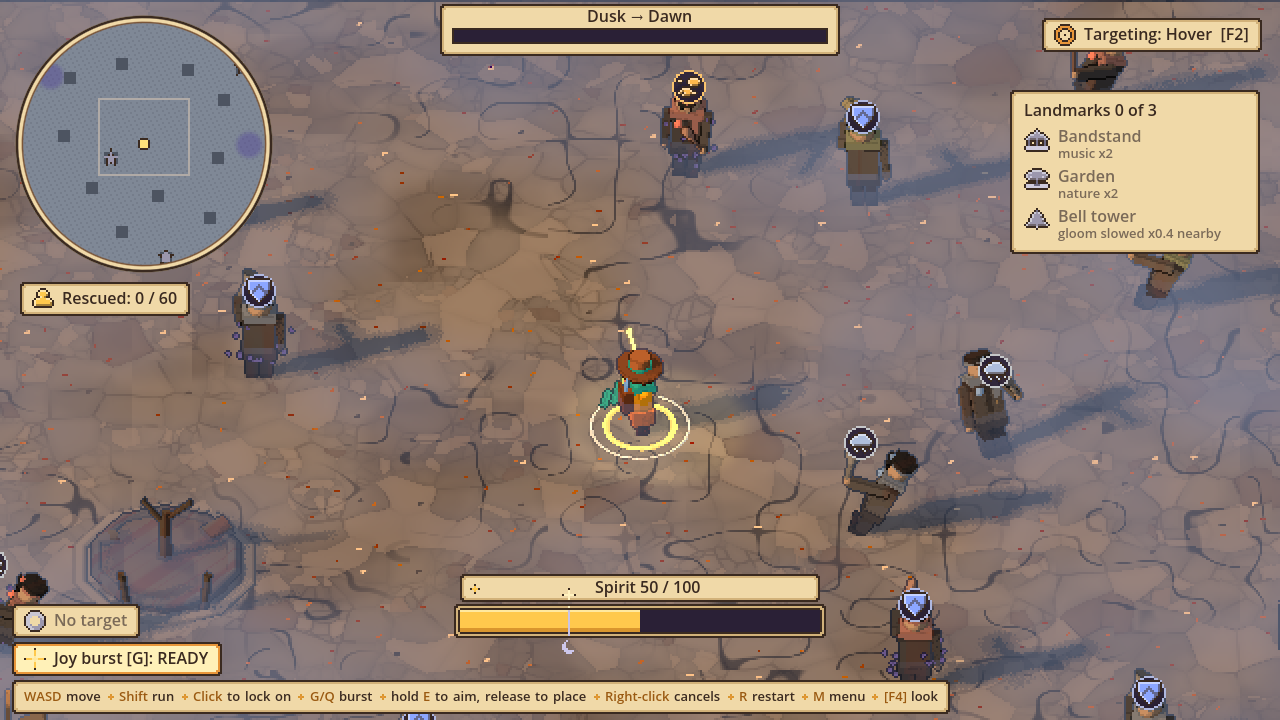
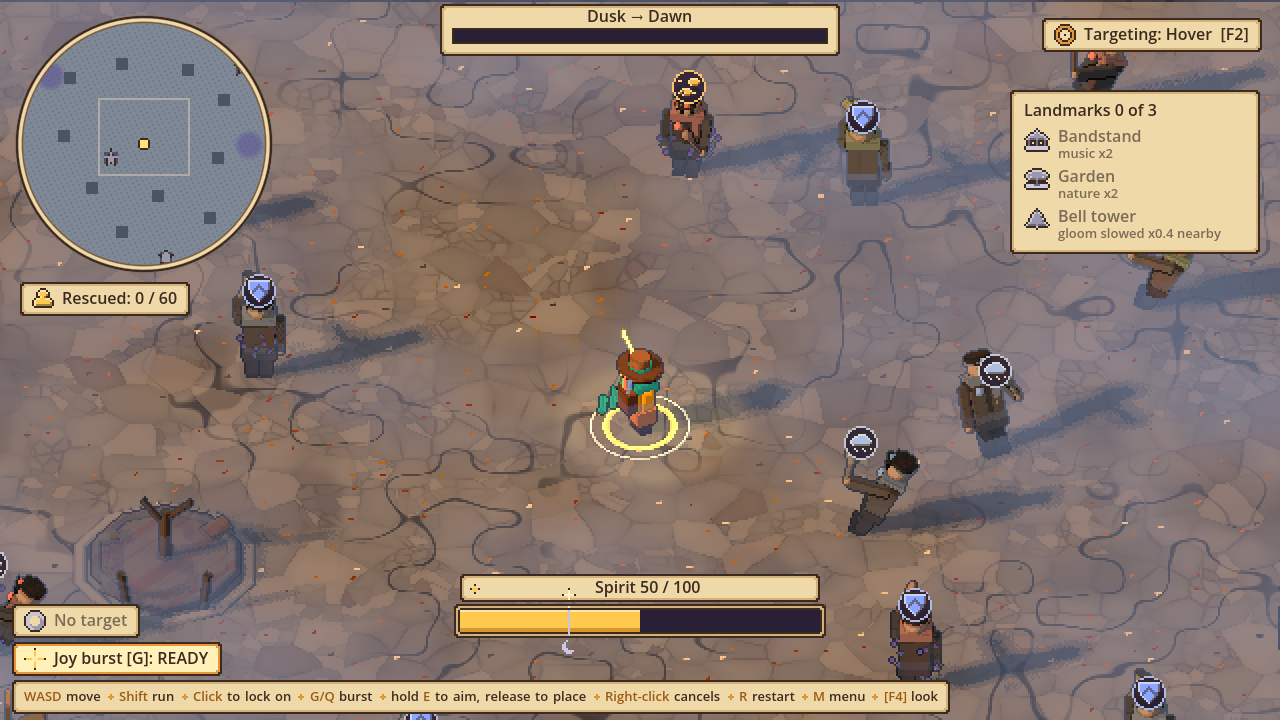
0.3.1 playtest 2: fewer larger butterflies with cached lookups, ground noise on an integer hash (no straight seams)
Butterflies (#44): C7_BUTTERFLIES 28 -> 9, drawn at their own L31_BUTTERFLY_SCALE 4.2 (other ambient stays 2.6). StyleAmbient.step
looked up the paint weight for every live flyer, every person and every bird block's building every frame; those lookups now run
every L31_AMBIENT_RECHECK (0.4 s) and are cached between. New perf test (60 people, full zone, by day, one StyleAmbient.step):
before 0.489, 0.496, 0.485 ms; after 0.360, 0.350, 0.375, 0.398, 0.370 ms (budget 0.6 ms).

Ground seams (#45): cause: the ground shader's float fract hash (hash21) and vnoise built on it. vnoise evaluates four copies of the
hash per lattice cell and the chaotic hash turns a one-bit rounding difference between the copies into a whole step, so on the GPU
the noise jumped along lattice lines and cut puddles, grass and moss into straight-edged rectangles (reproduced in a play-zoom shot
inside the zone; the paint field itself was smooth). Fix: every random number in style_ground.gdshader now uses the integer hash
(h21 over ihash, vnoise_i). A test guards that the float hash and vnoise do not return in the ground shader.

Re-rendered design/renders/v0.3.1 (styled and sheets; placeholder renders untouched).

Refs #44
Refs #45

diff --git a/SOURCE_MAP.md b/SOURCE_MAP.md
@@ -170,13 +170,13 @@ extends Node3D | 1 const | Round 22: the world marks for the burst (G/Q), drawn 
 - L88 `streak_count() -> int`
 
 ### scripts/config.gd (Config)
-extends ConfigBase | 377 const | Round 19 onward: tuning values and the tiny pure helpers. Older constants live in config_base.gd (ConfigBas...
-- L635 `static intro_on() -> bool` - True when the layered introduction (round 13b) is on: always in the game, never under automated tests, unle...
-- L643 `static tides_on() -> bool` - Round 25: the gloom tides run in the game and not under automated tests (like the intro), so the older scen...
-- L650 `static multiplier(element: int, affinity: int) -> float` - Returns how much a hit with `element` is multiplied when the person has `affinity`.
-- L659 `static falloff(distance: float) -> float` - Returns the strength of a hit at `distance` metres: 1.0 up close, falling to FALLOFF_MIN far away.
-- L669 `static gloom_level(g: float) -> int` - Returns the visible grey level (0 light, 1 grey, 2 dimmed) for a hidden gloom value.
-- L680 `static is_automated_test() -> bool` - True when the game is running under the automated tests (tools/run_tests.py): the POSITIVEFPS_TEST=1 enviro...
+extends ConfigBase | 379 const | Round 19 onward: tuning values and the tiny pure helpers. Older constants live in config_base.gd (ConfigBas...
+- L637 `static intro_on() -> bool` - True when the layered introduction (round 13b) is on: always in the game, never under automated tests, unle...
+- L645 `static tides_on() -> bool` - Round 25: the gloom tides run in the game and not under automated tests (like the intro), so the older scen...
+- L652 `static multiplier(element: int, affinity: int) -> float` - Returns how much a hit with `element` is multiplied when the person has `affinity`.
+- L661 `static falloff(distance: float) -> float` - Returns the strength of a hit at `distance` metres: 1.0 up close, falling to FALLOFF_MIN far away.
+- L671 `static gloom_level(g: float) -> int` - Returns the visible grey level (0 light, 1 grey, 2 dimmed) for a hidden gloom value.
+- L682 `static is_automated_test() -> bool` - True when the game is running under the automated tests (tools/run_tests.py): the POSITIVEFPS_TEST=1 enviro...
 
 ### scripts/config_base.gd (ConfigBase)
 extends RefCounted | 370 const | All tuning values for the prototype live here. Change a number and run the game to feel the difference.
@@ -617,9 +617,9 @@ extends PlazaLook | 0 const | The styled plaza: low weathered stone walls round 
 
 ### scripts/looks/style_ambient.gd (StyleAmbient)
 extends Node3D | 7 const | Checkpoint 7: ambient life in the styled look. Butterflies by day and fireflies by night drift inside the z...
-- L70 `static attach(level: TopDownMain) -> StyleAmbient` - Builds the ambient life under `level` (TopDownMain keeps the node in `style_ambient`).
-- L109 `step(delta: float) -> void` - Moves everything `delta` seconds on and redraws it.
-- L132 `release_idlers() -> void` - Puts every sunk drawing back and forgets the idle actions.
+- L75 `static attach(level: TopDownMain) -> StyleAmbient` - Builds the ambient life under `level` (TopDownMain keeps the node in `style_ambient`).
+- L114 `step(delta: float) -> void` - Moves everything `delta` seconds on and redraws it.
+- L141 `release_idlers() -> void` - Puts every sunk drawing back and forgets the idle actions.
 
 ### scripts/looks/style_atmosphere.gd (StyleAtmosphere)
 extends Node3D | 2 const | Checkpoint 7 (change 5): the styled gloom atmosphere. Scenery only: it reads the night clock, held landmark...
@@ -1052,7 +1052,7 @@ extends Control | 0 const | Checkpoint 5: the wobble alert. A drained rescued pe
 - looks_base_test (tests/looks_base_test.gd): 6 tests
 - looks_checkpoint5_test (tests/looks_checkpoint5_test.gd): 18 tests
 - looks_checkpoint6_test (tests/looks_checkpoint6_test.gd): 11 tests
-- looks_checkpoint7_ground_test (tests/looks_checkpoint7_ground_test.gd): 10 tests
+- looks_checkpoint7_ground_test (tests/looks_checkpoint7_ground_test.gd): 11 tests
 - looks_cues_test (tests/looks_cues_test.gd): 8 tests
 - looks_round19_test (tests/looks_round19_test.gd): 10 tests
 - looks_round20_extra_test (tests/looks_round20_extra_test.gd): 3 tests
@@ -1089,7 +1089,7 @@ extends Control | 0 const | Checkpoint 5: the wobble alert. A drained rescued pe
 - stage_change_test (tests/stage_change_test.gd): 4 tests
 - stagger_test (tests/stagger_test.gd): 3 tests
 - stretch_safety_test (tests/stretch_safety_test.gd): 7 tests
-- style_scenery_test (tests/style_scenery_test.gd): 16 tests
+- style_scenery_test (tests/style_scenery_test.gd): 19 tests
 - targeting_test (tests/targeting_test.gd): 11 tests
 - topdown_crowd_test (tests/topdown_crowd_test.gd): 8 tests
 - topdown_mode_test (tests/topdown_mode_test.gd): 10 tests
